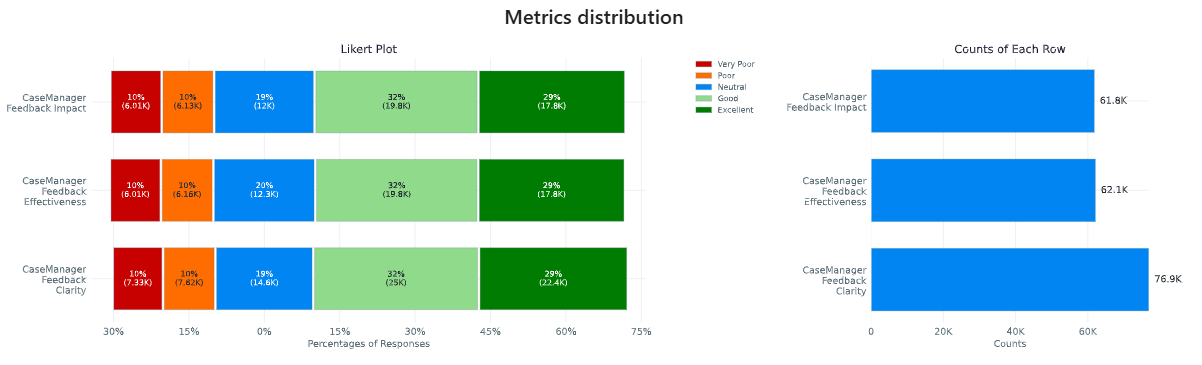
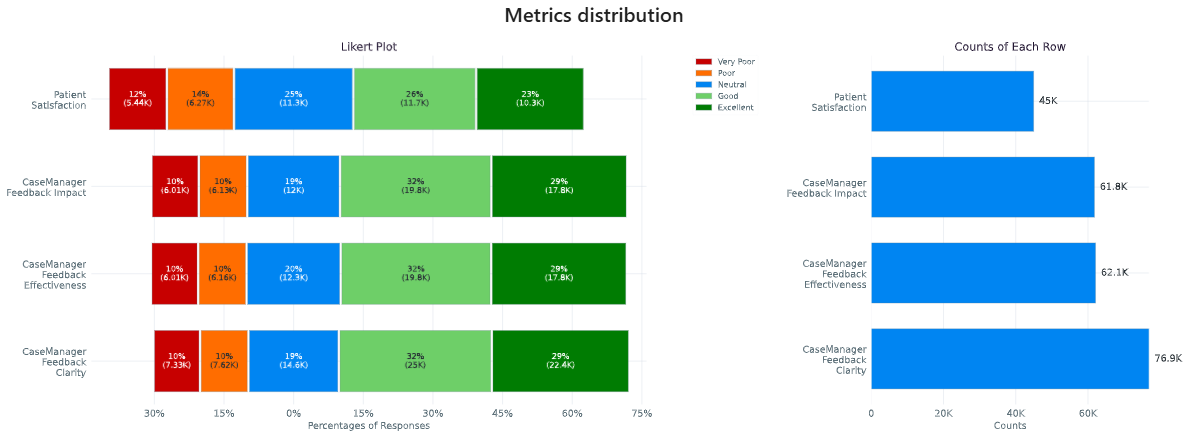
Update mid positive green color

diff --git a/src/seismometer/plot/mpl/_ux.py b/src/seismometer/plot/mpl/_ux.py
@@ -89,7 +89,7 @@ feedback_colors = FeedbackColors(
     "#0085f2",  # Blue - neutral
     "#76d1ff",  # Sky Blue - mildly positive
     "#62dcb9",  # Teal Green - somewhat positive
-    "#90da8b",  # Pastel Green - positive
+    "#6ecf68",  # Spring Green - positive
     "#4ea84e",  # Green - very positive
     "#007c02",  # Dark Green - extremely positive
 )
